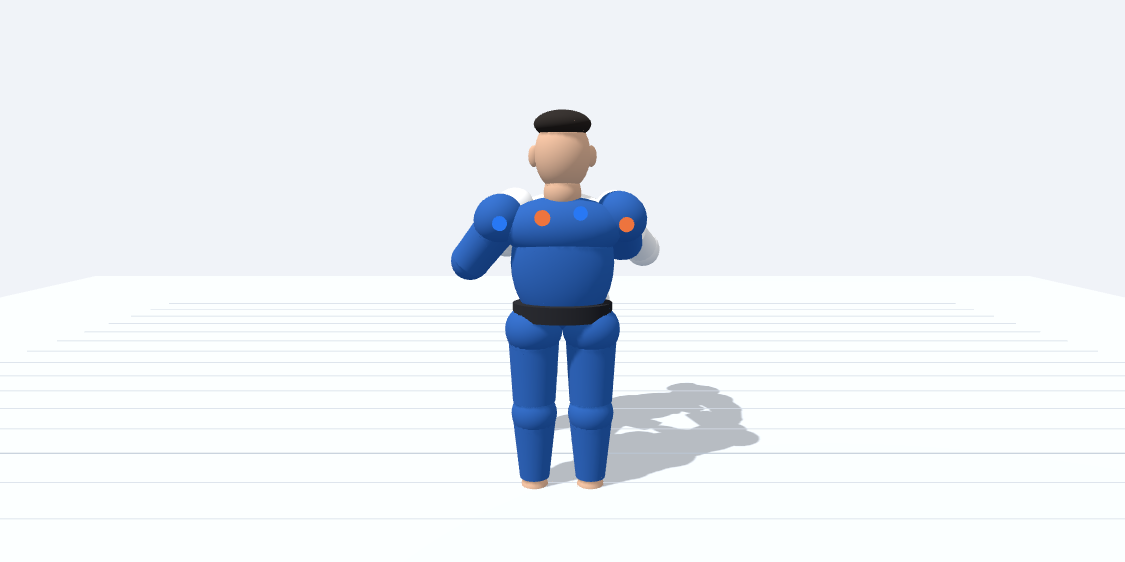
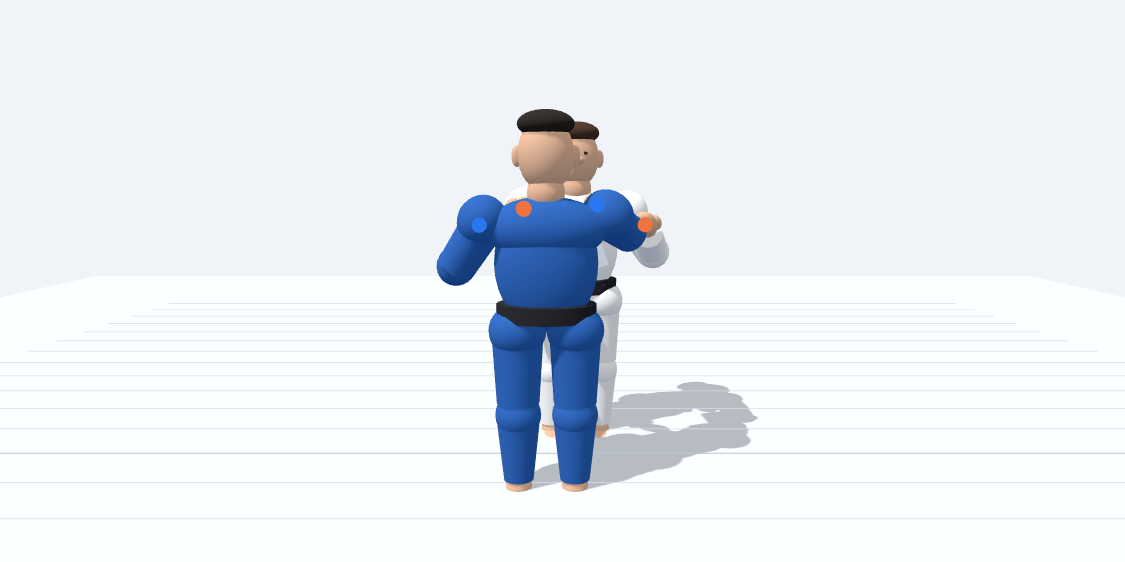
Separate bilateral Kumi-kata grips and orient wrists along sleeves

Changed region(s): [[0.3733, 0.1815, 0.6844, 0.8772], [0.5911, 0.8167, 0.6222, 0.847]]

diff --git a/index.html b/index.html
@@ -83,9 +83,16 @@ function gripDestination(id,hand,target,out){
  const rival=id==='tori'?'uke':'tori',p=people[rival];
  const rivalSide=hand==='right'?'left':'right';
  const sign=rivalSide==='left'?1:-1;
- if(target==='lapel')return p.joints.torso.localToWorld(out.set(sign*.13,.64,.235));
- // Manga exterior, cerca del codo, no la muñeca rival.
- return p.joints[rivalSide+'Elbow'].localToWorld(out.set(sign*.115,-.10,.025));
+ if(target==='lapel')return p.joints.torso.localToWorld(out.set(sign*.15,.70,.28));
+ // Centro de la palma sobre la manga exterior: incluye el espesor de la mano.
+ const elbow=p.joints[rivalSide+'Elbow'];
+ const axis=new THREE.Vector3(0,-1,0).transformDirection(elbow.matrixWorld);
+ const exterior=new THREE.Vector3(sign,0,0).transformDirection(p.joints.torso.matrixWorld);
+ // Elegir la superficie exterior horizontal, independiente del giro axial de la manga.
+ const normal=new THREE.Vector3().crossVectors(axis,new THREE.Vector3(0,1,0));
+ if(normal.lengthSq()<1e-6)normal.copy(exterior).addScaledVector(axis,-exterior.dot(axis));
+ normal.normalize();if(normal.dot(exterior)<0)normal.negate();
+ return elbow.localToWorld(out.set(0,-.16,0)).addScaledVector(normal,.19);
 }
 function solveHand(id,hand,target){
  const p=people[id],shoulder=p.joints[hand+'Shoulder'],elbow=p.joints[hand+'Elbow'];
@@ -95,13 +102,18 @@ function solveHand(id,hand,target){
  shoulder.parent.worldToLocal(goal);
  const delta=goal.sub(shoulder.position),distance=delta.length();
  // Longitudes hasta el centro de la palma; codo de bisagra entre 15 y 145 grados.
- const upper=.43,lower=.43+.095;
+ // Flexión suave y giro axial distinto por agarre, sin desviar lateralmente la muñeca.
+ const wristFlex=rad(-12),wristTwist=rad(sign*(target==='lapel'?45:25));
+ const palmOffset=new THREE.Vector3(0,-.095,0).applyAxisAngle(new THREE.Vector3(1,0,0),wristFlex);
+ const lowerRest=palmOffset.clone().add(new THREE.Vector3(0,-.43,0));
+ const upper=.43,lower=lowerRest.length();
+ const restAngle=Math.atan2(-lowerRest.z,-lowerRest.y);
  const minBend=rad(15),maxBend=rad(145);
  const reach=bend=>Math.sqrt(upper*upper+lower*lower+2*upper*lower*Math.cos(bend));
  const d=THREE.MathUtils.clamp(distance,reach(maxBend),reach(minBend));
  const direction=delta.normalize();
- // Polo anatómico: codo bajo y hacia el exterior de su propio judoka.
- const pole=new THREE.Vector3(sign*.8,-1,.15);
+ // Solapa: codo bajo; manga: codo más exterior para separar ambos corredores.
+ const pole=new THREE.Vector3(sign*(target==='lapel'?1.25:1),target==='lapel'?-1:-1.5,.25);
  pole.addScaledVector(direction,-pole.dot(direction)).normalize();
  const along=(upper*upper-lower*lower+d*d)/(2*d);
  const height=Math.sqrt(Math.max(0,upper*upper-along*along));
@@ -112,13 +124,13 @@ function solveHand(id,hand,target){
  const z=lowerDir.clone().addScaledVector(upperDir,-Math.cos(bend)).normalize();
  const y=upperDir.clone().negate(),x=new THREE.Vector3().crossVectors(y,z).normalize();
  shoulder.quaternion.setFromRotationMatrix(new THREE.Matrix4().makeBasis(x,y,z));
- elbow.rotation.set(-bend,0,0);
- wrist.rotation.set(0,0,0);
+ elbow.rotation.set(-bend-restAngle,0,0);
+ wrist.rotation.set(wristFlex,wristTwist,0);
 }
 $('classicGrip').onclick=()=>{
  // Reinicia una postura estable, sin piernas elevadas ni brazos colgando.
  const t=people.tori.root,u=people.uke.root;
- t.position.set(-.50,0,0);u.position.set(.50,0,0);
+ t.position.set(-.54,0,-.10);u.position.set(.54,0,.10);
  t.rotation.y=rad(90);u.rotation.y=rad(-90);
  for(const p of Object.values(people)){
   p.joints.torso.rotation.set(0,0,0);p.joints.head.rotation.set(0,0,0);

diff --git a/tests/visual_kumi_kata.py b/tests/visual_kumi_kata.py
@@ -1,0 +1,71 @@
+import sys,json,tempfile,os,math,itertools
+from pathlib import Path
+from playwright.sync_api import sync_playwright
+out=Path(sys.argv[1]) if len(sys.argv)>1 else Path(tempfile.mkdtemp(prefix='judo-visual-'));out.mkdir(parents=True,exist_ok=True)
+def segment_distance(p,q,r,s):
+ def sub(a,b):return [x-y for x,y in zip(a,b)]
+ def dot(a,b):return sum(x*y for x,y in zip(a,b))
+ def point_segment(a,b,c):
+  v=sub(c,b);w=sub(a,b);t=max(0,min(1,dot(w,v)/dot(v,v)))
+  return math.dist(a,[x+t*y for x,y in zip(b,v)])
+ u,v,w=sub(q,p),sub(s,r),sub(p,r)
+ a,b,c,d,e=dot(u,u),dot(u,v),dot(v,v),dot(u,w),dot(v,w)
+ distances=[point_segment(p,r,s),point_segment(q,r,s),point_segment(r,p,q),point_segment(s,p,q)]
+ determinant=a*c-b*b
+ if determinant>1e-12:
+  t,h=(b*e-c*d)/determinant,(a*e-b*d)/determinant
+  if 0<=t<=1 and 0<=h<=1:
+   distances.append(math.dist([x+t*y for x,y in zip(p,u)],[x+h*y for x,y in zip(r,v)]))
+ return min(distances)
+
+with sync_playwright() as p:
+ b=p.chromium.launch(executable_path=os.environ.get('CHROMIUM_PATH','/usr/bin/chromium'),args=['--no-sandbox','--use-angle=swiftshader','--enable-unsafe-swiftshader'])
+ page=b.new_page(viewport={'width':1440,'height':1000},device_scale_factor=1)
+ errors=[];page.on('pageerror',lambda e:errors.append(str(e)))
+ def route(r):
+  response=r.fetch();body=response.text().replace('</script></body>',"window.audit={people,scene,camera,controls,renderer,THREE,gripDestination,grips};</script></body>")
+  r.fulfill(response=response,body=body)
+ page.route('http://127.0.0.1:8000/',route)
+ page.goto('http://127.0.0.1:8000/',wait_until='networkidle');page.wait_for_selector('canvas')
+ page.locator('#classicGrip').click()
+ for name,pos in [('frontal',[5,2,0]),('lateral',[0,2,5]),('superior',[0,6,.001])]:
+  page.evaluate('(pos)=>{let a=window.audit;a.controls.enableDamping=false;a.controls.target.set(0,1.25,0);a.camera.position.set(...pos);a.controls.update();}',pos)
+  page.wait_for_timeout(400);page.locator('#scene').screenshot(path=str(out/(name+'.png')))
+ data=page.evaluate('''()=>{const {people,THREE,gripDestination,scene}=audit;scene.updateMatrixWorld(true);return Object.fromEntries(Object.entries(people).map(([id,p])=>[id,Object.fromEntries(['left','right'].map(side=>{let dest=gripDestination(id,side,side==='right'?'lapel':'sleeve',new THREE.Vector3());let wrist=p.joints[side+'Wrist'];let palm=wrist.localToWorld(new THREE.Vector3(0,-.095,0));return [side,{joints:Object.fromEntries(['Shoulder','Elbow','Wrist'].map(k=>[k,{position:p.joints[side+k].getWorldPosition(new THREE.Vector3()).toArray(),rotation:p.joints[side+k].rotation.toArray()}])),palm:palm.toArray(),target:dest.toArray(),gap:palm.distanceTo(dest)}]}))]));}''')
+ (out/'metrics.json').write_text(json.dumps(data,indent=2));print(json.dumps(data))
+ for person in data.values():
+  for arm in person.values():
+   assert arm['gap']<.005,arm
+   r=arm['joints']['Elbow']['rotation'];assert -2.531<=r[0]<=0 and r[1:3]==[0,0]
+   r=arm['joints']['Wrist']['rotation'];assert abs(r[0])<.22 and abs(r[1])<=.79 and r[2]==0
+ # Guard against the previous forearm crossing in the initial preset.
+ # This segment check supplements screenshots; it is not mesh collision detection.
+ arms=[[a['joints'][key]['position'] for key in ['Shoulder','Elbow','Wrist']]
+       for person in data.values() for a in person.values()]
+ separation=min(segment_distance(a[i],a[i+1],b[j],b[j+1])
+                for a,b in itertools.combinations(arms,2) for i in range(2) for j in range(2))
+ assert separation>.245,separation
+ print(f'PASS: minimum arm segment separation {separation:.3f}m (preset only)')
+ # Idempotence, local anatomical sides, torso/head reset and UI hinge bounds.
+ page.locator('#classicGrip').click()
+ assert page.evaluate("()=>audit.people.tori.joints.leftShoulder.position.x>0 && audit.people.tori.joints.rightShoulder.position.x<0")
+ page.select_option('#joint','rightElbow')
+ assert page.locator('#rotY').is_disabled() and page.locator('#rotZ').is_disabled()
+ page.locator('#rotX').fill('-100');page.locator('#rotX').dispatch_event('input')
+ assert page.locator('#xVal').inner_text()=='-100°'
+ page.locator('#classicGrip').click()
+ initial=page.evaluate("()=>Object.fromEntries(Object.entries(audit.people).map(([id,p])=>[id,Object.fromEntries(Object.entries(p.joints).map(([k,j])=>[k,j.rotation.toArray().slice(0,3)]))]))")
+ page.locator('#saveStep').click();page.locator('#newStep').click()
+ page.select_option('#joint','rightElbow');page.locator('#rotX').fill('-90');page.locator('#rotX').dispatch_event('input');page.locator('#saveStep').click()
+ page.locator('#playAnim').click();page.wait_for_function("document.querySelector('#progressText').textContent==='100%'",timeout=15000)
+ page.locator('#prevStep').click()
+ restored=page.evaluate("()=>Object.fromEntries(Object.entries(audit.people).map(([id,p])=>[id,Object.fromEntries(Object.entries(p.joints).map(([k,j])=>[k,j.rotation.toArray().slice(0,3)]))]))")
+ assert initial==restored
+ with page.expect_download() as d:page.locator('#exportJson').click()
+ exported=Path(d.value.path()).read_bytes()
+ page.locator('#importFile').set_input_files({'name':'roundtrip.json','mimeType':'application/json','buffer':exported})
+ assert page.locator('#steps button').count()==2
+ page.wait_for_timeout(1700);page.reload(wait_until='networkidle');page.wait_for_selector('canvas');assert page.locator('#steps button').count()==2
+ print('PASS: four contacts <5mm, hinge/wrist limits, anatomical sides, editing, animation, exact phase restoration, JSON import/export, local persistence')
+ assert not errors,errors
+ b.close()

diff --git a/docs/kumi-kata/README.md b/docs/kumi-kata/README.md
@@ -1,34 +1,51 @@
-# Revisión visual de Kumi-kata
+# Segunda revisión visual de Kumi-kata
 
-Capturas de Chromium con cámaras equivalentes antes y después de la corrección.
-Tori lleva judogi blanco y Uke azul. La vista frontal sigue el eje entre ambos;
-la lateral permite ver los dos cuerpos de perfil.
+Comparación de la postura de la primera revisión de esta rama con la postura
+actual. Capturas de Chromium con las mismas cámaras. Tori lleva judogi blanco;
+Uke, azul. La vista frontal sigue el eje entre ambos y la lateral los muestra de perfil.
 
-| Vista | Antes | Después |
+| Vista | Revisión anterior | Postura actual |
 | --- | --- | --- |
-| Frontal | ![Antes frontal](before/frontal.png) | ![Después frontal](after/frontal.png) |
-| Lateral | ![Antes lateral](before/lateral.png) | ![Después lateral](after/lateral.png) |
-| Superior | ![Antes superior](before/superior.png) | ![Después superior](after/superior.png) |
+| Frontal | ![Anterior frontal](before/frontal.png) | ![Actual frontal](after/frontal.png) |
+| Lateral | ![Anterior lateral](before/lateral.png) | ![Actual lateral](after/lateral.png) |
+| Superior | ![Anterior superior](before/superior.png) | ![Actual superior](after/superior.png) |
+
+## Ajustes
+
+- Hombros/codos con orientaciones distintas para solapa y manga; codos de manga
+  relajados hacia abajo y fuera, conservando derecha/izquierda anatómica.
+- Solapa algo más alta y manos de manga en la superficie exterior del antebrazo,
+  independientes de su giro axial. Los destinos incluyen el espesor de la palma.
+- Muñecas con 12° de flexión y orientación axial de 45° en solapa y 25° en manga,
+  sin desviación lateral. El cálculo del brazo incluye este desplazamiento de la palma.
+- Separación de 1,08 m entre raíces y pequeño desfase lateral de 20 cm entre judokas.
 
 ## Validación
 
-Prueba funcional ejecutada en Chromium con Playwright, WebGL por software y
-verificación TLS activada. Servidor: `python3 -m http.server 8000`.
+Ejecutado `tests/visual_kumi_kata.py` en Chromium con Playwright, WebGL por software
+y verificación TLS activada. Sin errores JavaScript.
 
-- Carga del HTML y escena Three.js sin errores JavaScript.
-- Cuatro palmas a menos de 5 mm de los puntos de agarre calculados.
-- Derecha/izquierda anatómicas, codos de bisagra y muñecas neutras en la postura inicial.
-- Edición de articulación y controles bloqueados para los ejes no válidos del codo.
-- Animación de dos fases hasta el 100 %.
-- Recuperación exacta de las rotaciones de una fase guardada.
-- Exportación/importación JSON y recuperación de dos fases tras recargar.
+- Cuatro palmas a menos de 5 mm de los puntos de contacto calculados.
+- Separación mínima entre segmentos de los brazos de aproximadamente 25,2 cm,
+  frente a 14,5 cm en la revisión anterior. Comprobación de segmentos complementada
+  con inspección de las tres vistas; no es una prueba completa de colisiones de mallas.
+- Lateralidad, límites de bisagra del codo y límites de muñeca.
+- Edición de articulación, animación de dos fases hasta el 100 % y recuperación
+  exacta de las rotaciones de la fase guardada.
+- Exportación/importación JSON y recuperación de fases tras recargar.
 
-Antes, la separación palma–destino era aproximadamente 13 cm en solapa y
-25 cm en manga, tomando las unidades del modelo como metros.
+Para repetir: instalar Playwright en el entorno de pruebas y disponer de Chromium.
+Iniciar `python3 -m http.server 8000 --bind 127.0.0.1` en la raíz del repositorio y,
+en otro terminal, ejecutar `python3 tests/visual_kumi_kata.py /tmp/judo-capturas`.
+`CHROMIUM_PATH` permite seleccionar otro ejecutable. Si hay un proxy TLS, configurar
+su CA en el almacén de confianza de Chromium; no desactivar la verificación.
+La prueba usa un contexto temporal e instrumentación sólo en memoria, sin modificar
+el HTML del repositorio. Genera las tres capturas y `metrics.json`.
 
 ## Limitaciones
 
-Las manos son geometría simplificada sin cierre articulado de dedos. No hay un
-sistema general de colisiones o de mantenimiento automático del contacto durante
-la edición libre y las animaciones. Las fases antiguas pueden cambiar visualmente
-por la corrección de lateralidad y la aplicación de límites articulares.
+Las manos siguen simplificadas, sin cierre articulado de dedos sobre tela. No hay
+colisiones generales ni mantenimiento automático del contacto al editar libremente
+o animar. Las fases antiguas pueden verse distintas por la corrección de lateralidad
+y los límites articulares. La revisión visual y las medidas corresponden a la postura
+inicial; no acreditan una simulación biomecánica o física completa.
